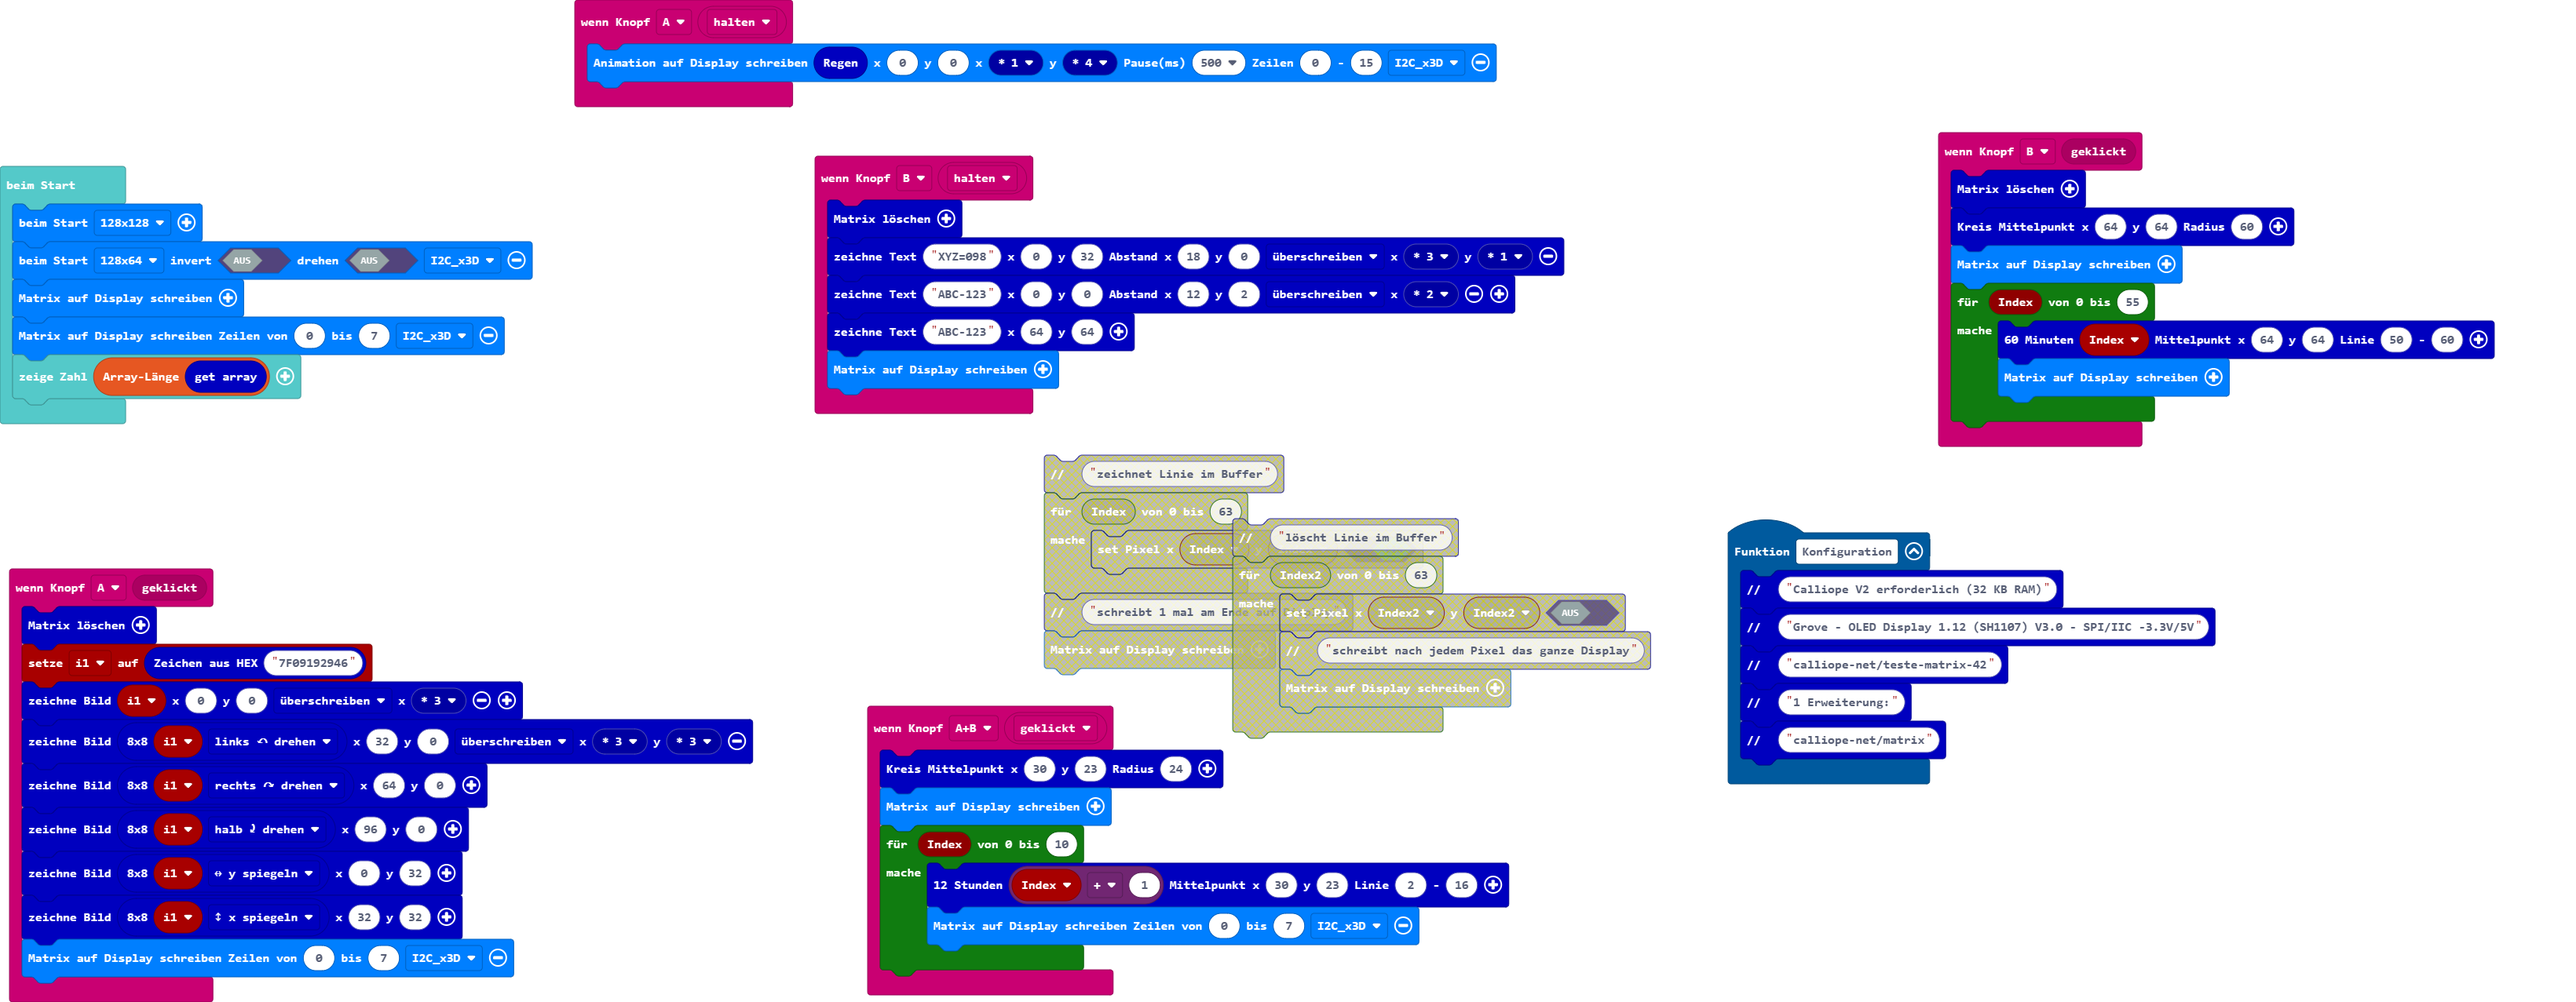
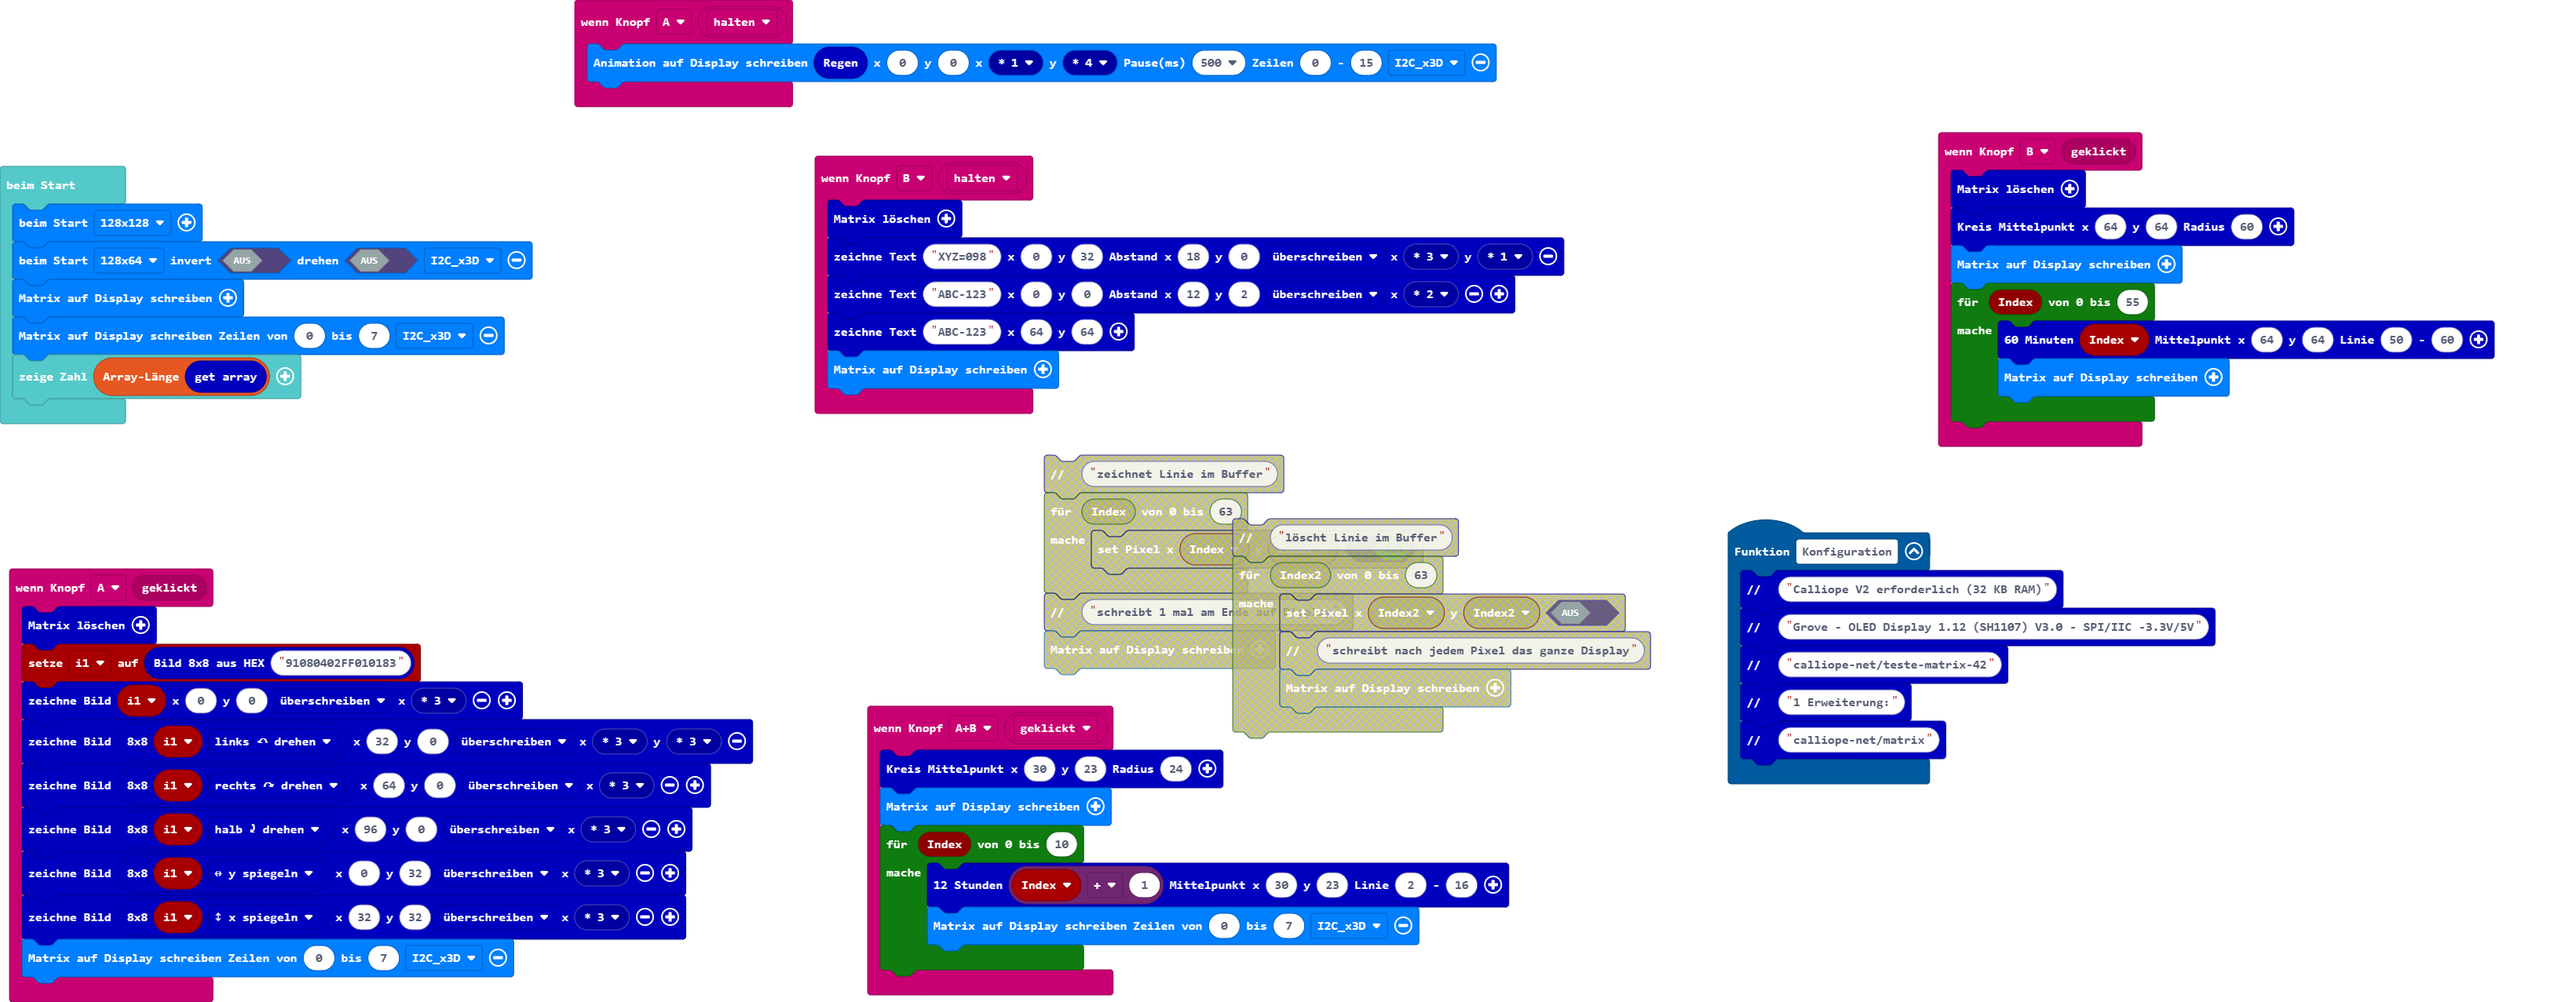
Aktualisiere pxt.json, main.blocks, main.ts

Changed region(s): [[0.1554, 0.7635, 0.2798, 0.9468], [0.0622, 0.6413, 0.1865, 0.7024]]

diff --git a/main.ts b/main.ts
@@ -8,13 +8,13 @@ input.onButtonEvent(Button.AB, ButtonEvent.Click, function () {
 })
 input.onButtonEvent(Button.A, input.buttonEventClick(), function () {
     matrix.clearMatrix()
-    i1 = matrix.hexImage("7F09192946")
+    i1 = matrix.hexImage8x8("91080402FF010183")
     matrix.writeImage(i1, 0, 0, matrix.eTransparent.u, matrix.oled_eFaktor(matrix.eFaktor.f3))
     matrix.writeImage(matrix.imageDrehen(i1, matrix.eZeichenDrehen.links), 32, 0, matrix.eTransparent.u, matrix.oled_eFaktor(matrix.eFaktor.f3), matrix.oled_eFaktor(matrix.eFaktor.f3))
-    matrix.writeImage(matrix.imageDrehen(i1, matrix.eZeichenDrehen.rechts), 64, 0)
-    matrix.writeImage(matrix.imageDrehen(i1, matrix.eZeichenDrehen.halb), 96, 0)
-    matrix.writeImage(matrix.imageDrehen(i1, matrix.eZeichenDrehen.yspiegeln), 0, 32)
-    matrix.writeImage(matrix.imageDrehen(i1, matrix.eZeichenDrehen.xspiegeln), 32, 32)
+    matrix.writeImage(matrix.imageDrehen(i1, matrix.eZeichenDrehen.rechts), 64, 0, matrix.eTransparent.u, matrix.oled_eFaktor(matrix.eFaktor.f3))
+    matrix.writeImage(matrix.imageDrehen(i1, matrix.eZeichenDrehen.halb), 96, 0, matrix.eTransparent.u, matrix.oled_eFaktor(matrix.eFaktor.f3))
+    matrix.writeImage(matrix.imageDrehen(i1, matrix.eZeichenDrehen.yspiegeln), 0, 32, matrix.eTransparent.u, matrix.oled_eFaktor(matrix.eFaktor.f3))
+    matrix.writeImage(matrix.imageDrehen(i1, matrix.eZeichenDrehen.xspiegeln), 32, 32, matrix.eTransparent.u, matrix.oled_eFaktor(matrix.eFaktor.f3))
     matrix.writeDisplay(0, 7, matrix.eI2C.I2C_x3D)
 })
 input.onButtonEvent(Button.B, input.buttonEventClick(), function () {
